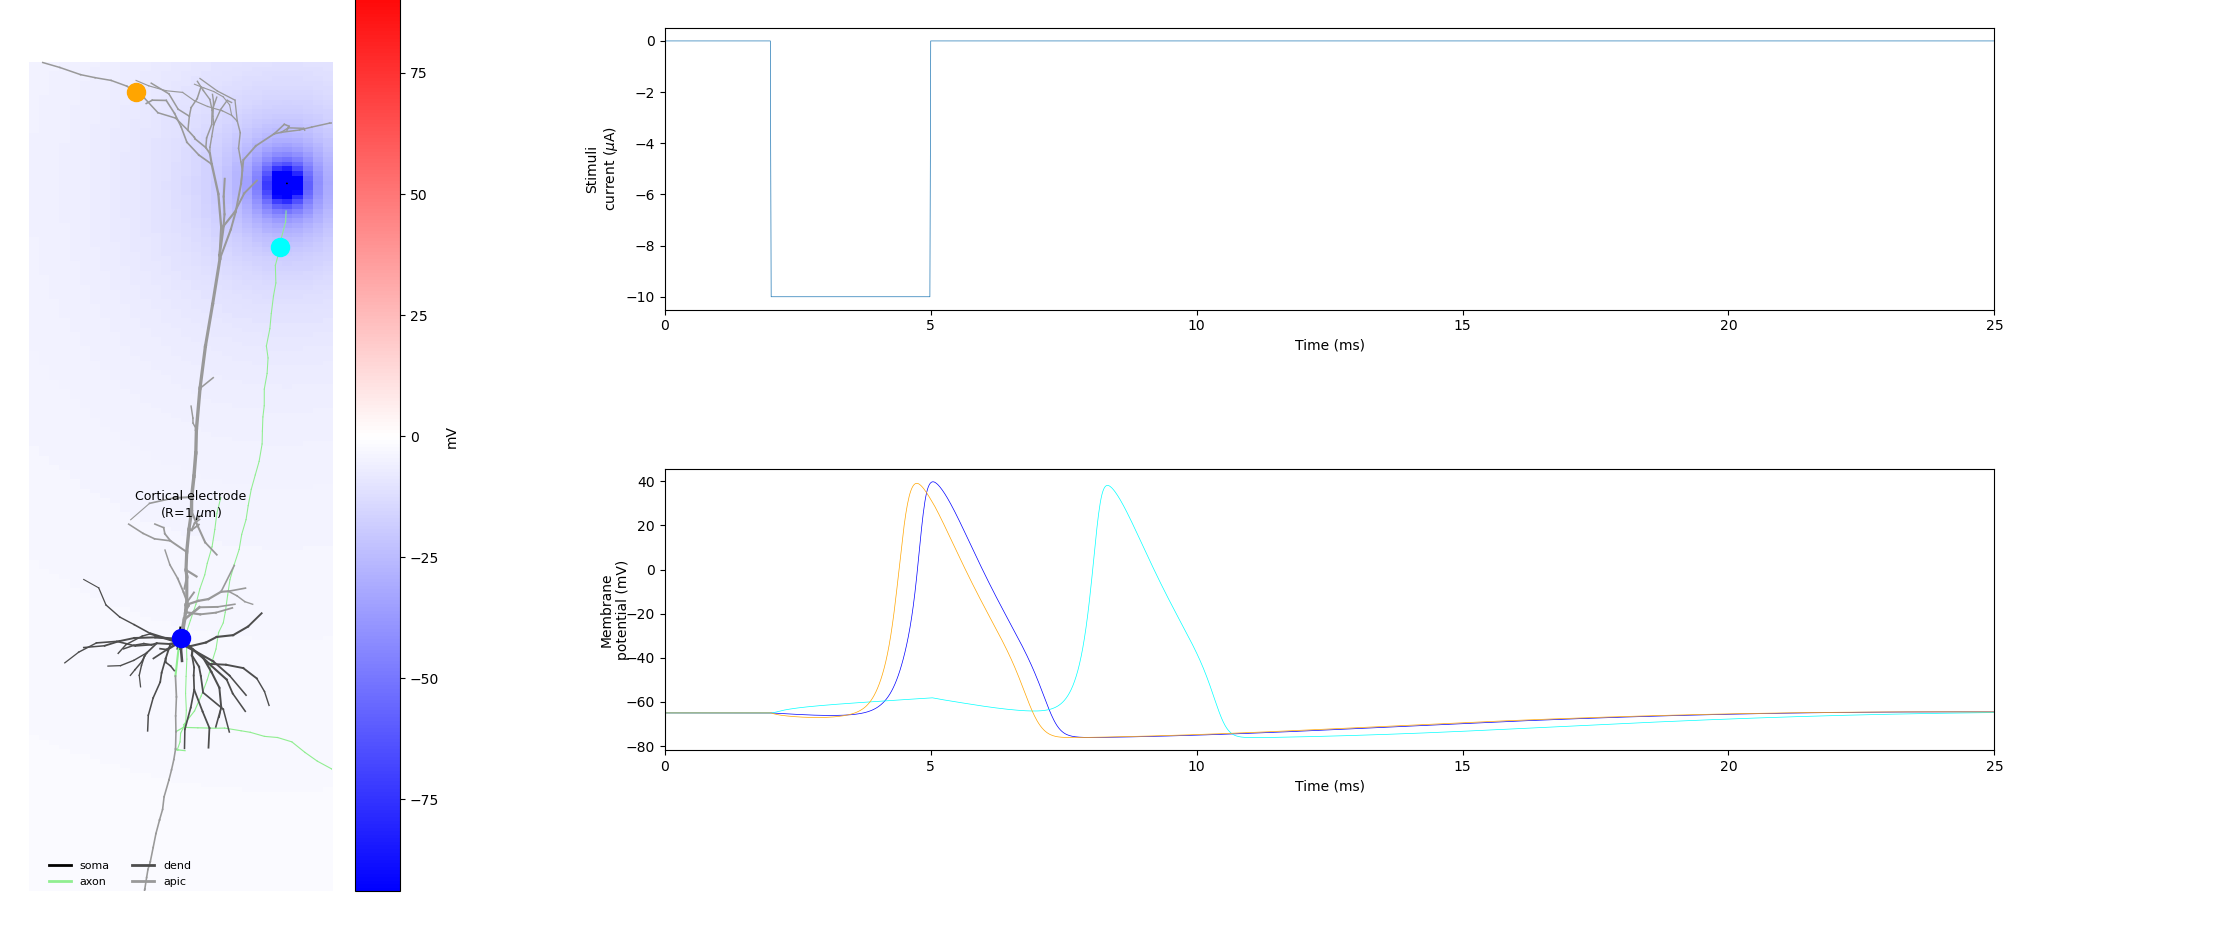
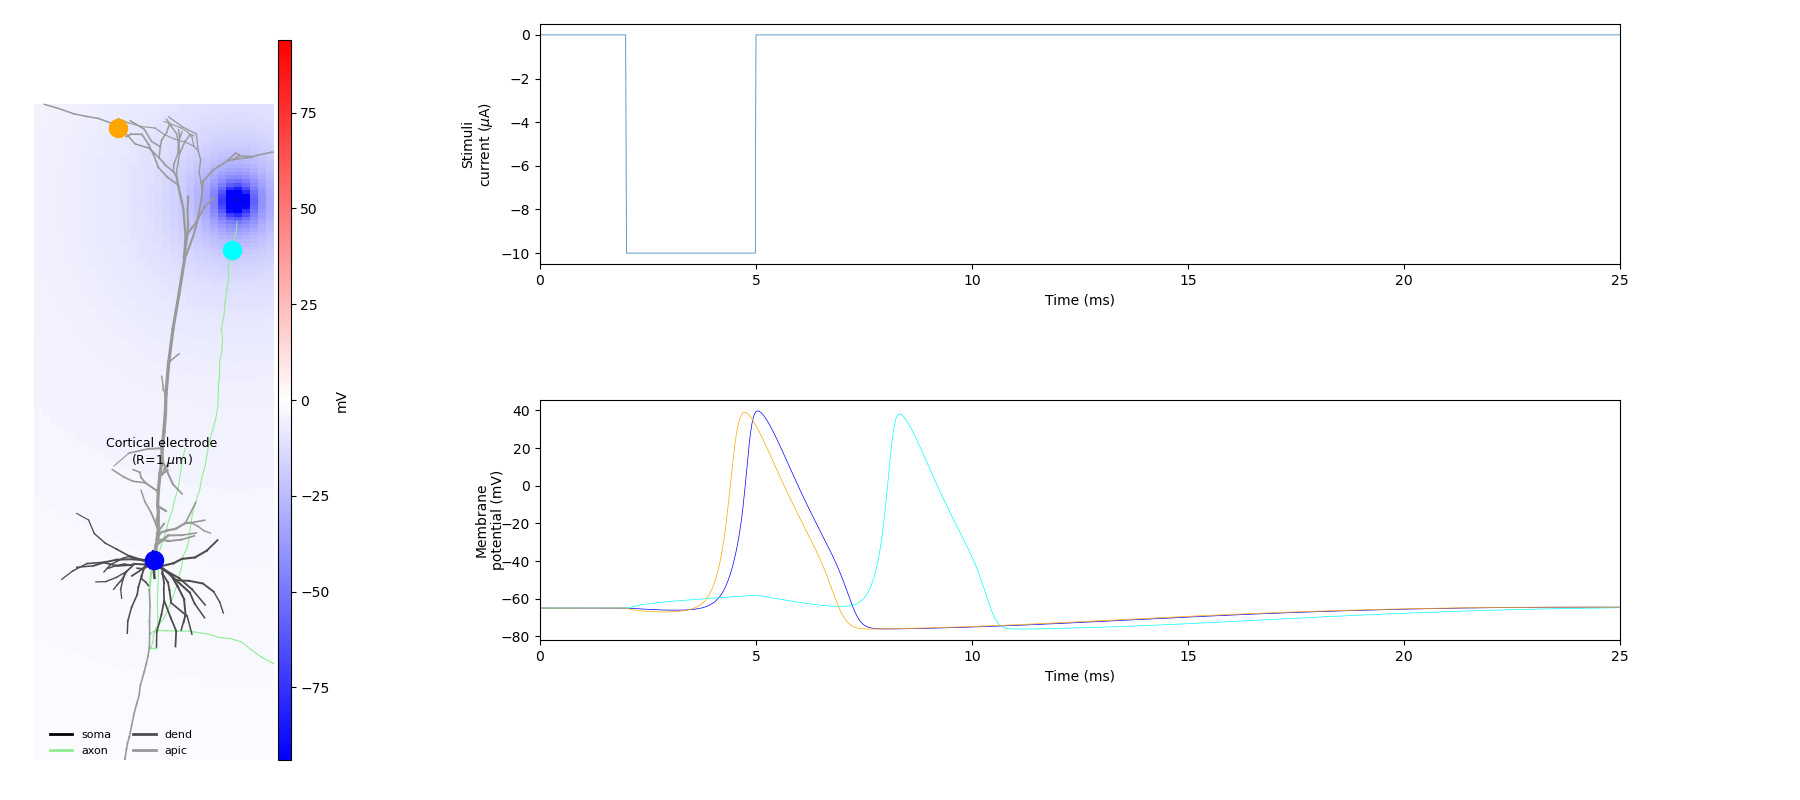
Changed colorbar plotting and some figure parameters to improve colorbar

diff --git a/main.py b/main.py
@@ -1,6 +1,7 @@
 import numpy as np
 import neuron
 import matplotlib.pyplot as plt
+from mpl_toolkits.axes_grid1 import make_axes_locatable
 import matplotlib
 import LFPy
 import os
@@ -133,10 +134,10 @@ class ExternalPotentialSim:
         # Defining figure frame and parameters
         fig = plt.figure(figsize=[18, 8])
         fig.subplots_adjust(hspace=0.5, left=0.0, wspace=0.5, right=0.96,
-                            top=0.97, bottom=0.1)
+                            top=0.9, bottom=0.1)
 
         # Adding axes with appropriate parameters
-        ax_m = fig.add_axes([-0.01, 0.05, 0.2, 0.97], aspect=1, frameon=False,
+        ax_m = fig.add_axes([-0.01, 0.05, 0.2, 0.90], aspect=1, frameon=False,
                             xticks=[], yticks=[], ylim=[-700, 1100], xlim=[-300, 300])
 
         # Names of different neuron parts and color codings for each
@@ -203,14 +204,13 @@ class ExternalPotentialSim:
                 v_field_ext[xidx, zidx] = self.ext_field(x, 0, z) * self.amp
 
         vmax = np.max(np.abs(v_field_ext)) / 5
-        plt.imshow(v_field_ext.T, extent=[np.min(xf), np.max(xf), np.min(zf), np.max(zf)],
-                   origin='lower', interpolation='nearest', cmap='bwr', vmin=-vmax, vmax=vmax)
+        ax_cb = plt.gca()
+        im_p = ax_cb.imshow(v_field_ext.T, extent=[np.min(xf), np.max(xf), np.min(zf), np.max(zf)],
+                            origin='lower', interpolation='nearest', cmap='bwr', vmin=-vmax, vmax=vmax)
 
-        plt.colorbar(label='mV')
-        # [plt.plot([self.cell.xstart[idx], self.cell.xend[idx]], [self.cell.zstart[idx], self.cell.zend[idx]], c='gray', zorder=1)
-        #  for idx in range(self.cell.totnsegs)]
-        # [plt.plot(self.cell.xmid[idx], self.cell.zmid[idx], 'o', c=cell_plot_colors[idx], ms=12)
-        #  for idx in cell_plot_idxs]
+        divider = make_axes_locatable(ax_cb)
+        cax = divider.append_axes("right", size="5%", pad=0.05)
+        plt.colorbar(im_p, cax=cax, label='mV')
 
         ax_top = 0.97
         ax_h = 0.30
